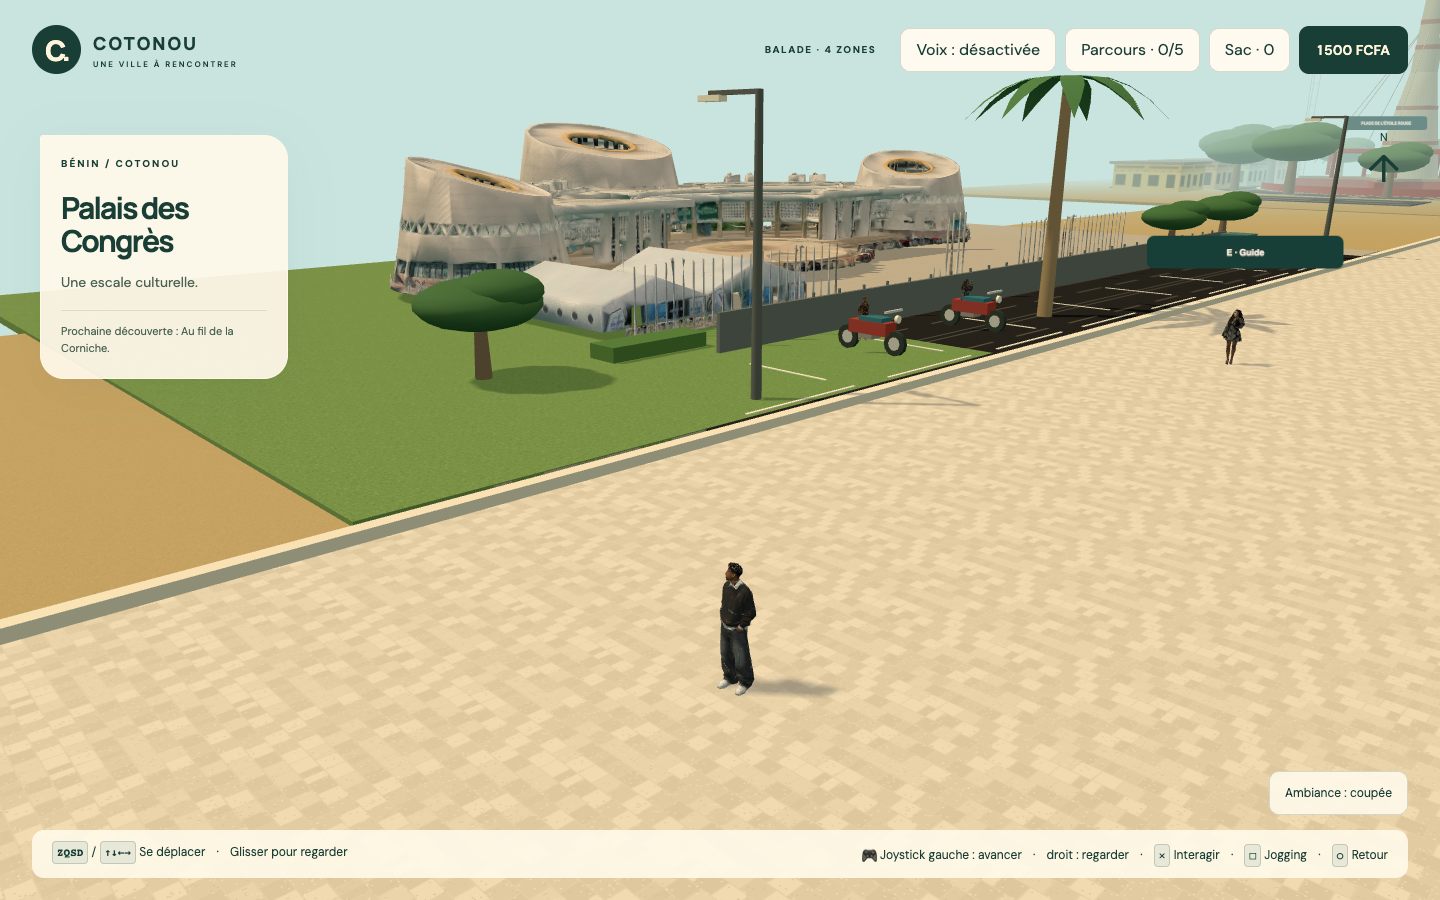
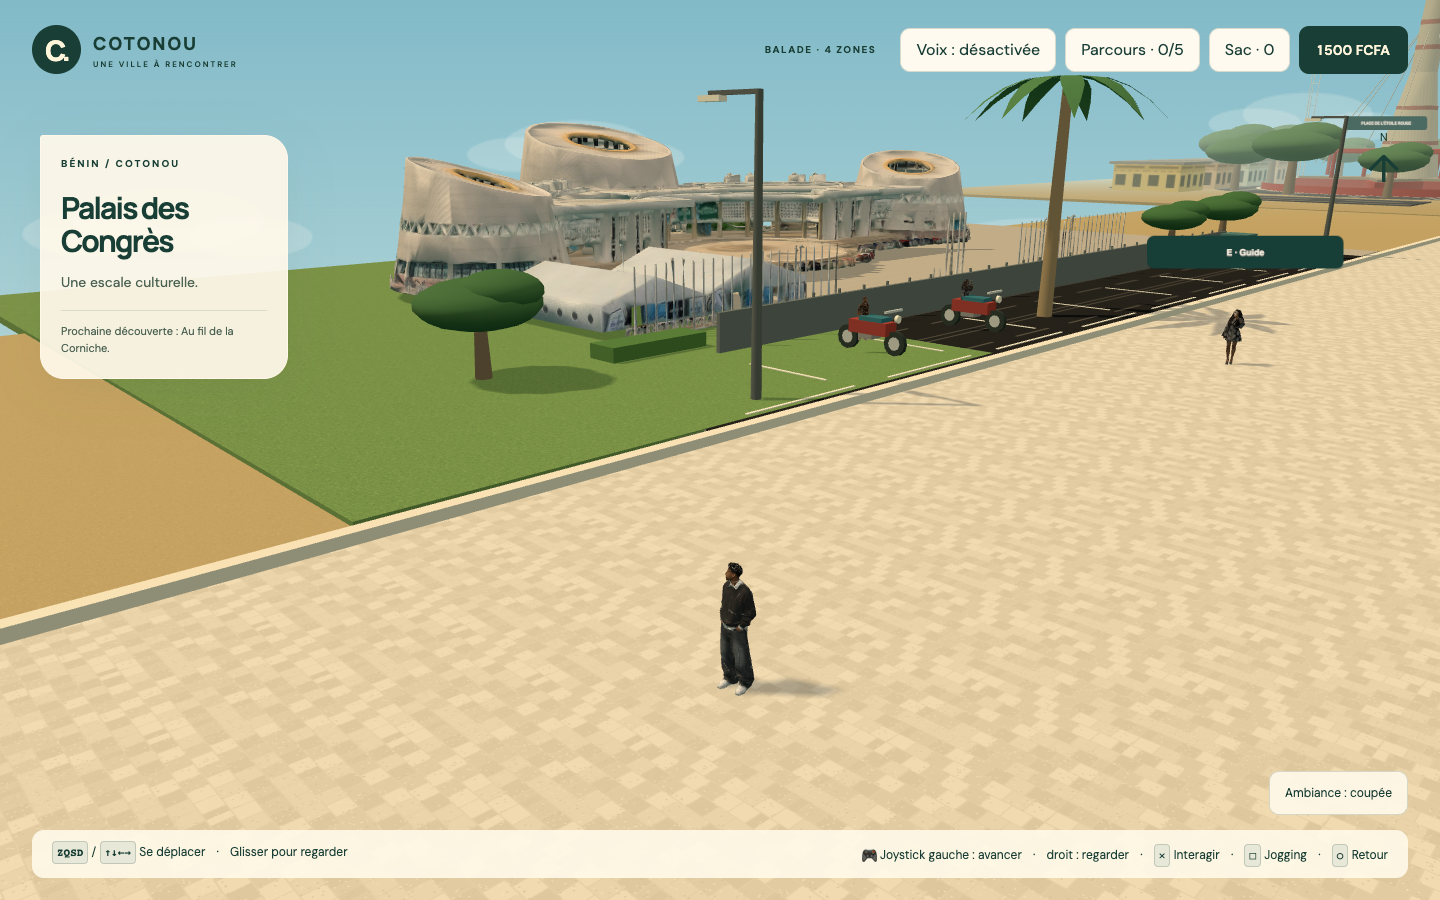
Refactor code structure for improved readability and maintainability

Changed region(s): [[0.0, 0.0, 1.0, 0.3422]]

diff --git a/src/entities/Monuments.ts b/src/entities/Monuments.ts
@@ -16,16 +16,49 @@ const CREME_CONGRES = '#ece5d6';
 
 /** Sol continu de la promenade, chaussée, accotements et rives. */
 export function boulevard(b: Batisseur) {
-  const longueur = 436, centre = -193;
-  b.sol(28, longueur, b.tex('sable', 14, 218, '#cfc6ab'), -22, centre, -.05);        // rive ouest
-  b.sol(30, longueur, b.tex('sable', 15, 218, '#c9c2a8'), 36, centre, -.05);         // rive est
-  b.sol(16.4, longueur, b.tex('paves', 8, 216), .1, centre);                          // trottoir
-  b.sol(3, longueur, b.tex('gazon', 1.5, 145), 9.7, centre, -.02);                   // accotement planté
-  b.sol(10, longueur, b.tex('asphalte', 1, 54), 16, centre, -.03);                   // chaussée
+  // Le décor visible dépasse largement les limites jouables (-407 à 25). La
+  // circulation peut ainsi faire demi-tour hors champ sans rouler dans le vide.
+  const longueur = 620, centre = -190;
+  b.sol(28, longueur, b.tex('sable', 14, 310, '#cfc6ab'), -22, centre, -.05).name='sol-lointain-ouest';
+  b.sol(30, longueur, b.tex('sable', 15, 310, '#c9c2a8'), 36, centre, -.05).name='sol-lointain-est';
+  b.sol(16.4, longueur, b.tex('paves', 8, 308), .1, centre).name='promenade-continue';
+  b.sol(3, longueur, b.tex('gazon', 1.5, 205), 9.7, centre, -.02).name='accotement-continu';
+  b.sol(10, longueur, b.tex('asphalte', 1, 77), 16, centre, -.03).name='chaussee-continue';
   for (const x of [-8.2, 8.35]) b.boite(.35, .24, longueur, '#e7e1d2', x, .12, centre).castShadow = false;
   // Le tronçon de la Corniche reçoit ses lampadaires solaires spécifiques dans Rues.ts.
   for (let z = -102; z > -400; z -= 34) b.lampadaireDouble(10.6, z);
   for (let z = -118; z > -400; z -= 34) b.lampadaireSimple(11.4, z, 1);
+
+  horizonUrbain(b);
+}
+
+/** Volumes lointains qui ferment la carte sans alourdir les zones de visite. */
+function horizonUrbain(b: Batisseur) {
+  const couleurs=['#c9bda8','#b7c2bb','#d2aa87','#aab8b5','#d5cbb7'];
+  // Deux rangées restent derrière les façades détaillées. Leur silhouette est
+  // visible lorsque le joueur regarde de côté, à la place d'un grand fond vide.
+  for(let i=0;i<19;i++){
+    const z=66-i*30+(i%2?4:-3),x=72;
+    const h=5+(i*7%11),w=13+(i%3)*4,d=18+(i%4)*3;
+    const immeuble=b.boite(w,h,d,couleurs[(i+2)%couleurs.length],x,h/2,z);
+    immeuble.castShadow=false;
+    const bande=b.boite(w+.08,.75,d*.78,'#51696a',x-(w/2+.05),Math.min(h-1.2,3.1),z);
+    bande.castShadow=false;
+  }
+  // Les deux extrémités ferment la perspective au-delà des demi-tours du trafic.
+  for(const z of [82,-474])for(let x=30;x<=70;x+=20){
+    const h=5+Math.abs(Math.round(x/10))%8;
+    const fond=b.boite(16,h,13,couleurs[Math.abs(Math.round(x/20))%couleurs.length],x,h/2,z);
+    fond.castShadow=false;
+  }
+  // Nuages très légers : ils donnent de la profondeur au ciel sans masquer les monuments.
+  const nuage=b.mat('#fffaf0',{transparent:.36,face2:true});
+  for(const [x,y,z,s] of [[-34,39,-34,7],[48,46,-118,9],[-52,43,-222,8],[55,40,-330,7],[-28,48,-430,10]] as const){
+    const g=new T.Group();g.position.set(x,y,z);b.racine.add(g);
+    for(const [dx,dy,e] of [[-1.2,0,.8],[0,.35,1],[1.35,.05,.72]] as const){
+      const m=b.sphere(1,nuage,dx*s*.18,dy*s*.12,0,g);m.scale.set(s*.42,s*.13,s*.2);m.castShadow=false;m.receiveShadow=false;
+    }
+  }
 }
 
 /** Corniche Est d’Akpakpa : plage ouverte, promenades, jeunes palmiers et piste de mise en forme. */

diff --git a/tests/rues.spec.ts b/tests/rues.spec.ts
@@ -10,6 +10,8 @@ test('rues habitées : circulation, pause, son facultatif et captures',async({pa
  const before=await z();await expect.poll(z).not.toBe(before);
  await expect.poll(()=>page.evaluate(()=>{const s=(window as any).__scenes.find((v:any)=>v.getObjectByName('joueur'));return !!s?.getObjectByName('circulation-1')?.getObjectByName('vehicule-modele');}),{timeout:60000}).toBe(true);
  await expect.poll(()=>page.evaluate(()=>{const s=(window as any).__scenes.find((v:any)=>v.getObjectByName('joueur'));return s?.children.filter((o:any)=>o.name.startsWith('zem-supplementaire-')).length;}),{timeout:60000}).toBe(5);
+ const limitesSol=await page.evaluate(async()=>{const T=await import('/node_modules/three/build/three.module.js');const s=(window as any).__scenes.find((v:any)=>v.getObjectByName('joueur'));const sol=s.getObjectByName('chaussee-continue');const boite=new T.Box3().setFromObject(sol);return{min:boite.min.z,max:boite.max.z};});
+ expect(limitesSol.min).toBeLessThan(-421);expect(limitesSol.max).toBeGreaterThan(43);
  await expect.poll(()=>page.evaluate(async()=>{const T=await import('/node_modules/three/build/three.module.js');const s=(window as any).__scenes.find((v:any)=>v.getObjectByName('joueur'));const objet=s?.getObjectByName('zem-supplementaire-1');if(!objet)return false;const taille=new T.Box3().setFromObject(objet).getSize(new T.Vector3());return taille.z>taille.x;}),{timeout:60000}).toBe(true);
  const ecartMinimum=()=>page.evaluate(()=>{const s=(window as any).__scenes.find((v:any)=>v.getObjectByName('joueur'));const vehicules=s.children.filter((o:any)=>/^circulation-|^zem-supplementaire-/.test(o.name));let minimum=Infinity;for(let i=0;i<vehicules.length;i++)for(let j=i+1;j<vehicules.length;j++)if(Math.abs(vehicules[i].position.x-vehicules[j].position.x)<1.3)minimum=Math.min(minimum,Math.abs(vehicules[i].position.z-vehicules[j].position.z));return minimum;});
  await expect.poll(ecartMinimum).toBeGreaterThan(3.2);
@@ -20,6 +22,10 @@ test('rues habitées : circulation, pause, son facultatif et captures',async({pa
  await page.waitForTimeout(500);await page.screenshot({path:'docs/audit/rues-akpakpa.png'});
  await page.evaluate(()=>{const s=(window as any).__scenes.find((v:any)=>v.getObjectByName('joueur'));s.getObjectByName('joueur').position.set(0,.15,-348);});
  await expect(page.locator('#zone-title')).toHaveText('L’Étoile Rouge');await page.waitForTimeout(700);await page.screenshot({path:'docs/audit/rues-etoile.png'});
+ // Au nord de la zone jouable, le sol, les immeubles et le ciel prolongent la perspective.
+ await page.evaluate(()=>{const s=(window as any).__scenes.find((v:any)=>v.getObjectByName('joueur'));s.getObjectByName('joueur').position.set(16,.15,20);});
+ await page.mouse.move(900,450);await page.mouse.down();await page.mouse.move(272,450);await page.mouse.up();
+ await page.waitForTimeout(500);await page.screenshot({path:'docs/audit/horizon-ville.png'});
  await page.locator('#ambiance').click();await expect(page.locator('#ambiance')).toHaveAttribute('aria-pressed','true');await page.locator('#ambiance').click();await expect(page.locator('#ambiance')).toHaveAttribute('aria-pressed','false');
  expect(errors).toEqual([]);
 });

diff --git a/tests/parcours.spec.ts b/tests/parcours.spec.ts
@@ -32,6 +32,11 @@ test('modèles, cinq guides, transport et fin de démo',async({page})=>{
  await expect.poll(()=>page.evaluate(()=>{const s=(window as any).__scenes.find((v:any)=>v.getObjectByName('joueur'));return Math.abs(s.getObjectByName('circulation-2').rotation.z);}),{timeout:10000}).toBeGreaterThan(.5);
  await expect.poll(()=>page.evaluate(()=>{const s=(window as any).__scenes.find((v:any)=>v.getObjectByName('joueur'));return Math.abs(s.getObjectByName('vehicule-joueur-zemidjan').rotation.z);})).toBeGreaterThan(.5);
  await page.keyboard.up('z');await page.screenshot({path:'docs/audit/collision-zemidjans.png'});await page.waitForTimeout(2800);
+ // Une voiture autonome s'arrête également lorsqu'elle percute un passant.
+ await expect.poll(()=>page.evaluate(()=>{const s=(window as any).__scenes.find((v:any)=>v.getObjectByName('joueur'));return !!s.getObjectByName('passant-6')?.getObjectByName('corps-personnage');}),{timeout:30000}).toBe(true);
+ await page.evaluate(()=>{const s=(window as any).__scenes.find((v:any)=>v.getObjectByName('joueur'));const j=s.getObjectByName('joueur'),v=s.getObjectByName('circulation-5'),p=s.getObjectByName('passant-6');j.position.set(0,.15,-370);v.position.set(23,0,-370);p.position.set(23,.15,-370);});
+ await expect.poll(()=>page.evaluate(()=>{const s=(window as any).__scenes.find((v:any)=>v.getObjectByName('joueur'));return Math.abs(s.getObjectByName('passant-6').getObjectByName('corps-personnage').rotation.x);})).toBeGreaterThan(.5);
+ await expect.poll(()=>page.evaluate(()=>{const s=(window as any).__scenes.find((v:any)=>v.getObjectByName('joueur'));return Math.abs(s.getObjectByName('circulation-5').rotation.z);})).toBeGreaterThan(.05);
  // La moto renverse aussi un piéton, s'arrête et déclenche le message d'accident.
  await expect.poll(()=>page.evaluate(()=>{const s=(window as any).__scenes.find((v:any)=>v.getObjectByName('joueur'));return !!s.getObjectByName('passant-0')?.getObjectByName('corps-personnage');}),{timeout:30000}).toBe(true);
  await page.evaluate(()=>{const s=(window as any).__scenes.find((v:any)=>v.getObjectByName('joueur'));const j=s.getObjectByName('joueur'),p=s.getObjectByName('passant-0');s.children.filter((o:any)=>/^circulation-|^zem-supplementaire-/.test(o.name)).forEach((o:any)=>o.position.x=50);j.position.set(0,.15,-60);p.position.set(0,.15,-61.2);});

diff --git a/src/world.ts b/src/world.ts
@@ -68,7 +68,19 @@ export class Monde {
   }
 
   constructor(host:HTMLElement){
-    this.scene.background=new T.Color('#c9e4df');this.scene.fog=new T.Fog('#c9e4df',60,190);
+    const ciel=document.createElement('canvas');ciel.width=1024;ciel.height=512;
+    const pinceau=ciel.getContext('2d')!,degrade=pinceau.createLinearGradient(0,0,0,ciel.height);
+    degrade.addColorStop(0,'#82bac8');degrade.addColorStop(.62,'#c8e1df');degrade.addColorStop(1,'#e7dfc6');
+    pinceau.fillStyle=degrade;pinceau.fillRect(0,0,ciel.width,ciel.height);
+    pinceau.fillStyle='#fffdf3';pinceau.globalAlpha=.2;
+    for(const [x,y,s] of [[120,125,1],[410,82,.75],[735,145,1.15],[930,65,.68]] as const){
+      for(const [dx,dy,r] of [[-55,8,.72],[0,0,1],[58,10,.65]] as const){
+        pinceau.beginPath();pinceau.ellipse(x+dx*s,y+dy*s,68*r*s,18*r*s,0,0,Math.PI*2);pinceau.fill();
+      }
+    }
+    pinceau.globalAlpha=1;
+    const textureCiel=new T.CanvasTexture(ciel);textureCiel.colorSpace=T.SRGBColorSpace;
+    this.scene.background=textureCiel;this.scene.fog=new T.Fog('#d1dfd5',75,215);
     this.renderer=new T.WebGLRenderer({antialias:true});this.renderer.setSize(innerWidth,innerHeight);
     this.renderer.setPixelRatio(Math.min(devicePixelRatio,1.5));this.renderer.shadowMap.enabled=true;this.renderer.shadowMap.type=T.PCFSoftShadowMap;
     host.append(this.renderer.domElement);this.renderer.domElement.setAttribute('aria-label','Balade 3D dans quatre zones de Cotonou');

diff --git a/src/entities/Foule.ts b/src/entities/Foule.ts
@@ -231,6 +231,13 @@ export class Foule {
     for (let n: T.Object3D | null = objet; n; n = n.parent) if (n === this.scene) return true;
     return false;
   }
+  /** Ignore les conducteurs déjà intégrés aux modèles de véhicules. */
+  private dansUnVehicule(objet: T.Object3D) {
+    for (let n: T.Object3D | null = objet.parent; n; n = n.parent) {
+      if (/^(circulation-|zem-supplementaire-|vehicule-joueur-|moto-borne)/.test(n.name)) return true;
+    }
+    return false;
+  }
   /**
    * Copie légère du corps choisi par le joueur, utilisée comme passager du
    * zémidjan. Le GLB n'est pas riggé : une légère inclinaison donne une pose
@@ -293,7 +300,7 @@ export class Foule {
     let cible: Habitant | undefined, distance = Infinity;
     const monde = new T.Vector3();
     for (const h of this.habitants) {
-      if (h === this.joueur || h.chute !== undefined || !this.dansLaScene(h.personnage.objet)) continue;
+      if (h === this.joueur || h.chute !== undefined || !this.dansLaScene(h.personnage.objet) || this.dansUnVehicule(h.personnage.objet)) continue;
       h.personnage.objet.getWorldPosition(monde);
       const d = Math.hypot(monde.x - position.x, monde.z - position.z);
       if (d <= portee && d < distance) { cible = h; distance = d; }

diff --git a/README.md b/README.md
@@ -130,6 +130,10 @@ motos, conducteurs et passagers avant leur remise en route. Une moto ou une voit
 un personnage déclenche aussi un accident : le personnage tombe, le véhicule s'immobilise et
 tous deux reprennent leur route après quelques secondes.
 
+Le sol et la chaussée continuent au-delà des limites jouables afin que les véhicules ne flottent
+jamais en bout de carte. Des volumes d'immeubles lointains, des nuages légers et un ciel en
+dégradé ferment la perspective lorsque la caméra regarde hors des quatre zones détaillées.
+
 Les quinze fichiers actifs optimisés tiennent en environ 15,7 MiB. Le détail de la chaîne, le tableau des modèles et la raison
 pour laquelle celui de l’Étoile Rouge a été écarté sont dans [docs/MESHY.md](docs/MESHY.md).
 
